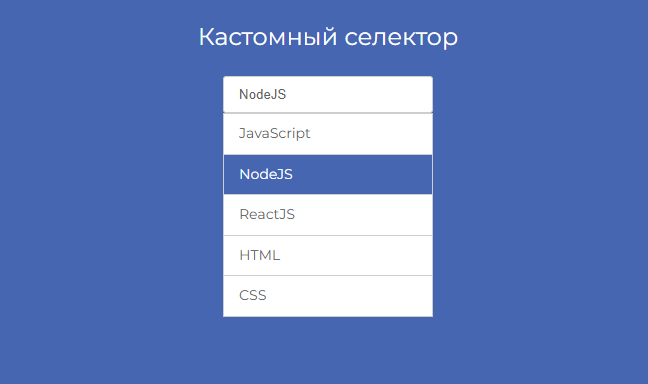
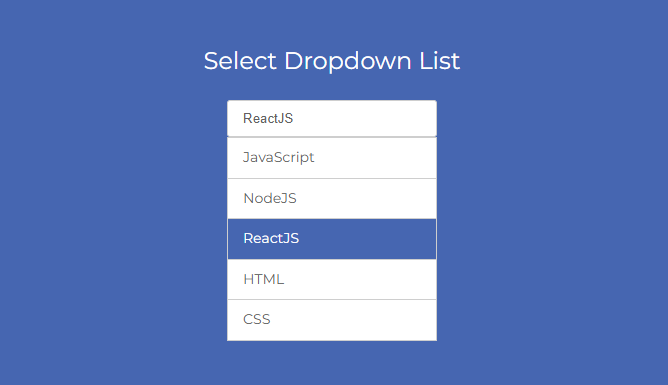
translate titles to english

Changed region(s): [[0.3086, 0.0625, 0.7099, 0.9062]]

diff --git a/js/script.js b/js/script.js
@@ -28,27 +28,18 @@ class CustomSelect {
 
   #createBlockWrapper() {
     const blockWrapper = document.createElement('div');
-    blockWrapper.classList.add(
-      'select-dropdown',
-      `select-dropdown--${this.#id}`
-    );
+    blockWrapper.classList.add('select-dropdown', `select-dropdown--${this.#id}`);
 
     return blockWrapper;
   }
 
   #createSelectButton() {
     const selectButton = document.createElement('button');
-    selectButton.classList.add(
-      'select-dropdown__button',
-      `select-dropdown__button--${this.#id}`
-    );
+    selectButton.classList.add('select-dropdown__button', `select-dropdown__button--${this.#id}`);
 
     const span = document.createElement('span');
-    span.classList.add(
-      'select-dropdown__text',
-      `select-dropdown__text--${this.#id}`
-    );
-    span.textContent = this.#currentSelectedOption?.text || 'Выберите элемент';
+    span.classList.add('select-dropdown__text', `select-dropdown__text--${this.#id}`);
+    span.textContent = this.#currentSelectedOption?.text || 'Choose one element';
 
     selectButton.appendChild(span);
 
@@ -57,10 +48,7 @@ class CustomSelect {
 
   #createListWrapper() {
     const listWrapper = document.createElement('ul');
-    listWrapper.classList.add(
-      'select-dropdown__list',
-      `select-dropdown__list--${this.#id}`
-    );
+    listWrapper.classList.add('select-dropdown__list', `select-dropdown__list--${this.#id}`);
 
     return listWrapper;
   }
@@ -98,8 +86,7 @@ class CustomSelect {
 }
 
 function setValue() {
-  document.querySelector('.select-dropdown__text').textContent =
-    dropDownBlock.selectedValue.text;
+  document.querySelector('.select-dropdown__text').textContent = dropDownBlock.selectedValue.text;
 }
 
 function addSelectedToItem(item) {

diff --git a/index.html b/index.html
@@ -11,7 +11,7 @@
     <script src="js/script.js" defer></script>
 </head>
 <body>
-    <h2 class="container__title">Кастомный селектор</h2>
+    <h2 class="container__title">Select Dropdown List</h2>
     <div id="container" class="container">
     </div>
 </body>

diff --git a/README.md b/README.md
@@ -1,7 +1,7 @@
-# Custom Selector
+# Select Dropdown List
 
 ## Simple JS App - [Demo](https://mve-js-donate.vercel.app/)
 
-### App custom selector
+### App Select Dropdown List
 
-![Donate](screenshot/custom-selector.png 'Custom Selector')
+![Donate](screenshot/custom-selector.png 'Select Dropdown List')
